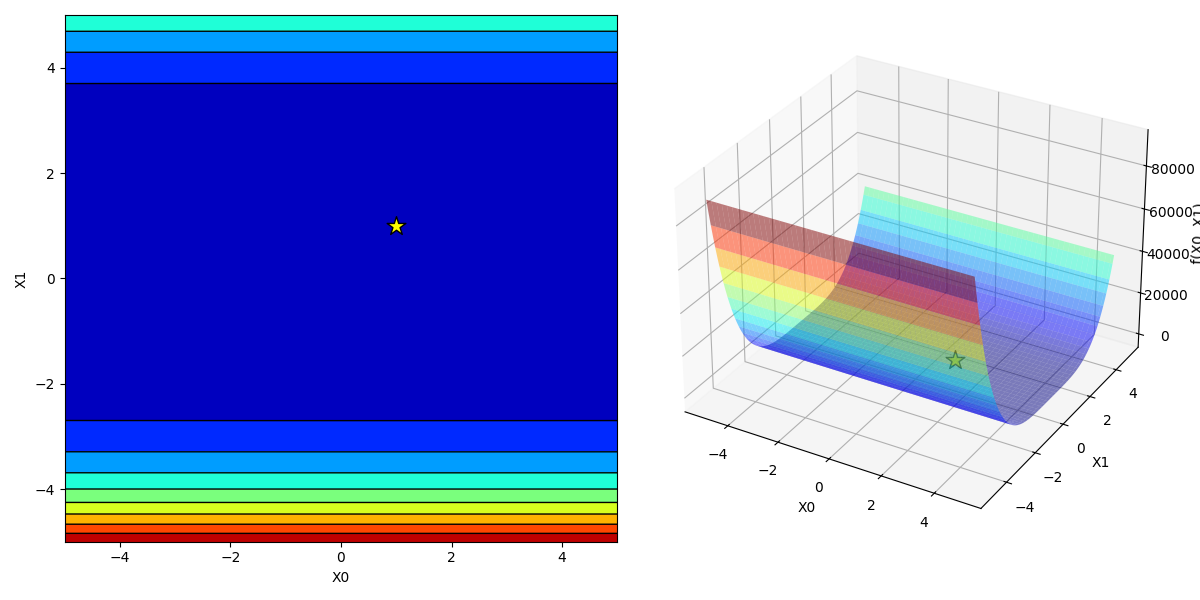
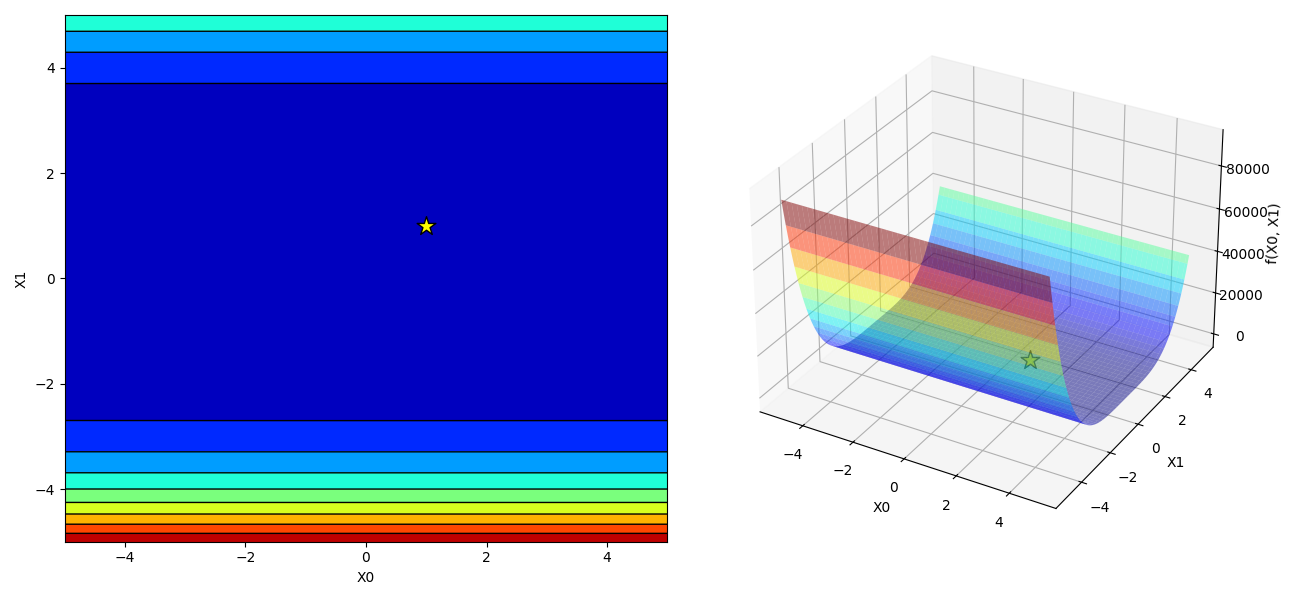
Updated Rosenbrock image

diff --git a/main.py b/main.py
@@ -24,7 +24,7 @@ if __name__ == "__main__":
 
     foo =  Rosenbrock()
 
-    foo.visualize(plot_bounds=[(-3, 3), (-0.25, 1.25)])
+    foo.visualize()
     
 
     '''
